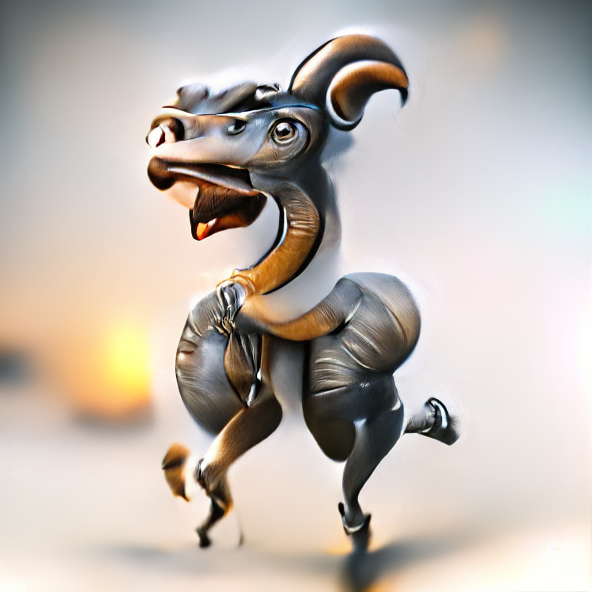
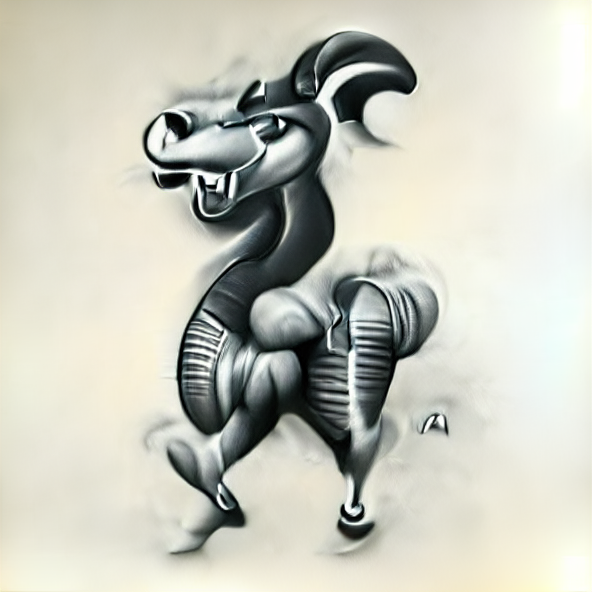
February 21, 2022 4:43 PM

diff --git a/train.py b/train.py
@@ -110,8 +110,8 @@ parser.add_argument('--padding', type=int, default=100)
 # parser.add_argument('--prompts', type=str, default="an 8K HD National Geographic photo taken with Fujifilm Superia, a photorealistic 3D render in Unreal Engine" )
 # parser.add_argument('--prompts', type=str, default="a photorealistic 3D render in Unreal Engine in the style of Salvador Dali, trending on ArtStation:1.5" )
 # parser.add_argument('--prompts', type=str, default="a painting in the style of Salvador Dali, trending on ArtStation:1.5" )
-parser.add_argument('--prompts', type=str, default="a photorealistic 3D render in Unreal Engine, trending on ArtStation:3" )
-# parser.add_argument('--prompts', type=str, default="Charcoal on canvas, 8K HD detailed black and white Wallpaper, trending on ArtStation:1.5" )
+# parser.add_argument('--prompts', type=str, default="a photorealistic 3D render in Unreal Engine, trending on ArtStation:1.5" )
+parser.add_argument('--prompts', type=str, default="Charcoal on canvas, 8K HD detailed black and white Wallpaper, trending on ArtStation:1.5" )
 # parser.add_argument('--prompts', type=str, default="")
 
 parser.add_argument('--altprompts', type=str, default="" )
